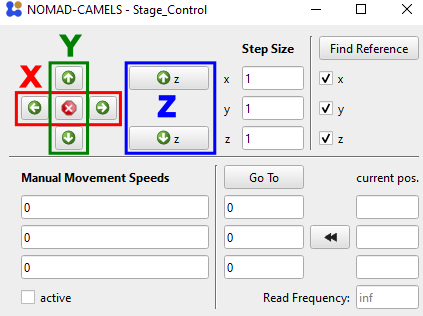
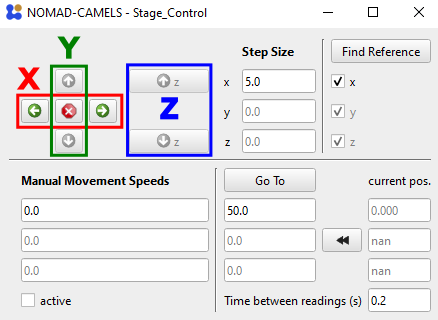
updates stage control

diff --git a/docs/quick_start/quick_start_manual_control.md b/docs/quick_start/quick_start_manual_control.md
@@ -31,7 +31,8 @@ Click `OK` and `start` the manual control.\
 
 This opens the stage control.\
 ![img_47.png](img_47.png)\
-Here you can set the step size and use the green arrow keys to control the selected axis. You can also jump to a specific value by using the `Go To` values.
+Here you can set the step size and use the green arrow keys to control the selected axis. You can also jump to a specific value by entering values below the `Go To` button and then pressing the button.
+> &#9888; The value of `Time between readings` is the time in seconds after which the axis is read (using the set `readback axis` channel).
 
 [&#8679; Back to the top &#8679;](#table-of-contents)
 <p style="text-align:left;">
